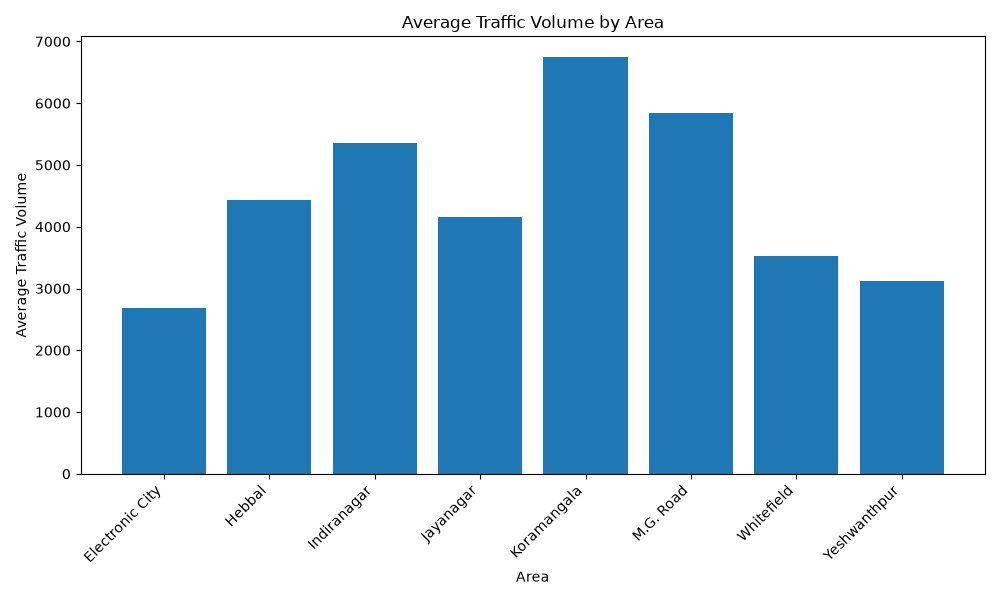
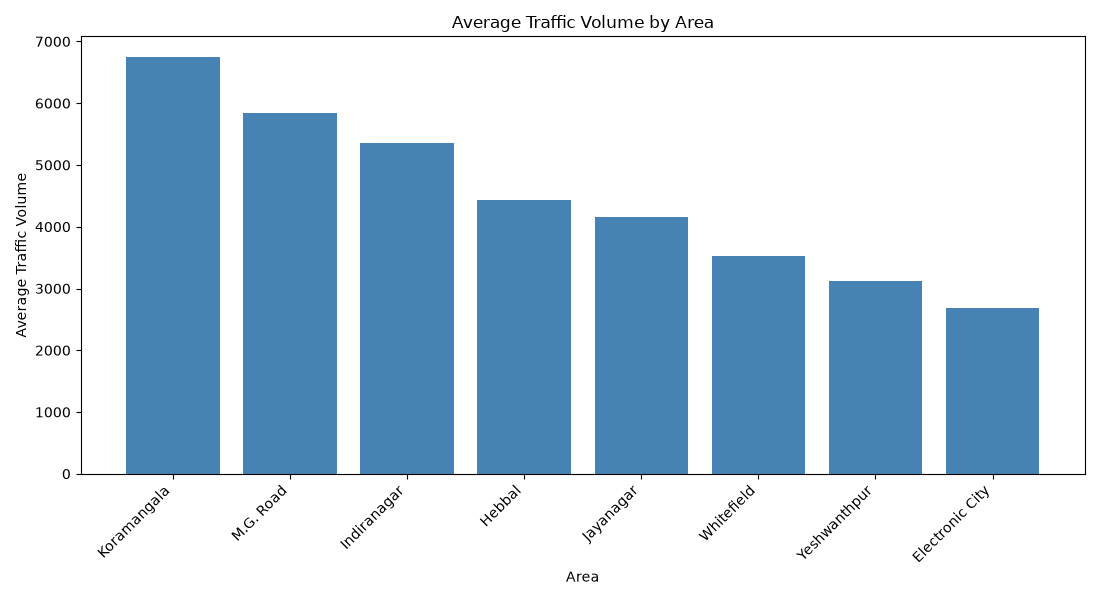
Update Python traffic visualizations

diff --git a/data_visualization.py b/data_visualization.py
@@ -1,16 +1,39 @@
+
 import pandas as pd
 import matplotlib.pyplot as plt
 import os
 
-# Create a folder to save the graphs
+# Load the cleaned traffic dataset
+df = pd.read_csv("bangalore_traffic_cleaned.csv")
+
+# Create a folder to save all five charts
 output_folder = "visualizations"
 os.makedirs(output_folder, exist_ok=True)
 
-# 1. Traffic volume by area
-traffic_volume = pd.read_csv("traffic_volume_by_area.csv")
+# Convert columns into appropriate data types
+df["Date"] = pd.to_datetime(df["Date"], errors="coerce")
+df["Traffic Volume"] = pd.to_numeric(df["Traffic Volume"], errors="coerce")
+df["Average Speed"] = pd.to_numeric(df["Average Speed"], errors="coerce")
 
-plt.figure(figsize=(10, 6))
-plt.bar(traffic_volume.iloc[:, 0], traffic_volume.iloc[:, 1])
+# Define traffic situation colours
+situation_colors = {
+    "HIGH": "red",
+    "MEDIUM": "gold",
+    "LOW": "green"
+}
+
+# --------------------------------------------------
+# 1. Average Traffic Volume by Area
+# --------------------------------------------------
+
+traffic_volume = (
+    df.groupby("Area Name")["Traffic Volume"]
+    .mean()
+    .sort_values(ascending=False)
+)
+
+plt.figure(figsize=(11, 6))
+plt.bar(traffic_volume.index, traffic_volume.values, color="steelblue")
 plt.title("Average Traffic Volume by Area")
 plt.xlabel("Area")
 plt.ylabel("Average Traffic Volume")
@@ -19,30 +42,145 @@ plt.tight_layout()
 plt.savefig(os.path.join(output_folder, "traffic_volume_by_area.png"))
 plt.close()
 
-# 2. Average speed by time block
-average_speed = pd.read_csv("average_speed_by_timeblock.csv")
 
-plt.figure(figsize=(9, 5))
-plt.bar(average_speed.iloc[:, 0], average_speed.iloc[:, 1])
-plt.title("Average Traffic Speed by Time Block")
-plt.xlabel("Time Block")
-plt.ylabel("Average Speed")
+# --------------------------------------------------
+# 2. Traffic Situation Distribution
+# --------------------------------------------------
+
+situation_counts = df["TrafficSituation"].value_counts()
+
+pie_colors = [
+    situation_colors.get(str(label).upper(), "gray")
+    for label in situation_counts.index
+]
+
+plt.figure(figsize=(8, 6))
+plt.pie(
+    situation_counts.values,
+    labels=situation_counts.index,
+    autopct="%1.1f%%",
+    startangle=90,
+    colors=pie_colors
+)
+plt.title("Traffic Situation Distribution")
 plt.tight_layout()
-plt.savefig(os.path.join(output_folder, "average_speed_by_timeblock.png"))
+plt.savefig(os.path.join(output_folder, "traffic_situation_distribution.png"))
 plt.close()
 
-# 3. Traffic situation counts
-situation_counts = pd.read_csv("traffic_situation_counts.csv")
 
-plt.figure(figsize=(8, 5))
-plt.bar(situation_counts.iloc[:, 0], situation_counts.iloc[:, 1])
-plt.title("Traffic Situation Counts")
-plt.xlabel("Traffic Situation")
-plt.ylabel("Number of Records")
+# --------------------------------------------------
+# 3. Monthly Traffic Volume Trend
+# --------------------------------------------------
+
+monthly_traffic = (
+    df.dropna(subset=["Date"])
+    .groupby(df["Date"].dt.to_period("M"))["Traffic Volume"]
+    .mean()
+)
+
+plt.figure(figsize=(11, 6))
+plt.plot(
+    monthly_traffic.index.astype(str),
+    monthly_traffic.values,
+    marker="o",
+    color="blue"
+)
+plt.title("Monthly Traffic Volume Trend")
+plt.xlabel("Month")
+plt.ylabel("Average Traffic Volume")
+plt.xticks(rotation=45, ha="right")
+plt.grid(True, alpha=0.3)
 plt.tight_layout()
-plt.savefig(os.path.join(output_folder, "traffic_situation_counts.png"))
+plt.savefig(os.path.join(output_folder, "monthly_traffic_volume_trend.png"))
 plt.close()
 
-print("All visualizations created successfully!")
-print("Check the visualizations folder for the three graphs.")
 
+# --------------------------------------------------
+# 4. Traffic Volume vs Average Speed
+# --------------------------------------------------
+
+plt.figure(figsize=(10, 6))
+
+for situation, group in df.groupby("TrafficSituation"):
+    plt.scatter(
+        group["Average Speed"],
+        group["Traffic Volume"],
+        label=situation,
+        color=situation_colors.get(str(situation).upper(), "gray"),
+        alpha=0.5
+    )
+
+plt.title("Traffic Volume vs Average Speed")
+plt.xlabel("Average Speed")
+plt.ylabel("Traffic Volume")
+plt.legend(title="Traffic Situation")
+plt.grid(True, alpha=0.3)
+plt.tight_layout()
+plt.savefig(os.path.join(output_folder, "traffic_volume_vs_average_speed.png"))
+plt.close()
+
+
+# --------------------------------------------------
+# 5. Congestion by Area
+# --------------------------------------------------
+
+congestion_data = (
+    df.groupby(["Area Name", "Congestion Level"])["Traffic Volume"]
+    .mean()
+    .unstack(fill_value=0)
+)
+
+# Sort areas by overall average traffic volume
+area_order = (
+    df.groupby("Area Name")["Traffic Volume"]
+    .mean()
+    .sort_values(ascending=False)
+    .index
+)
+
+congestion_data = congestion_data.reindex(area_order)
+
+# Define congestion colours
+congestion_colors = {
+    "HIGH": "red",
+    "MEDIUM": "gold",
+    "LOW": "green"
+}
+
+colors = [
+    congestion_colors.get(str(level).upper(), "gray")
+    for level in congestion_data.columns
+]
+
+congestion_data.plot(
+    kind="bar",
+    stacked=True,
+    figsize=(11, 6),
+    color=colors
+)
+
+plt.title("Congestion by Area")
+plt.xlabel("Area")
+plt.ylabel("Average Traffic Volume")
+plt.xticks(rotation=45, ha="right")
+plt.legend(title="Congestion Level")
+plt.tight_layout()
+plt.savefig(os.path.join(output_folder, "congestion_by_area.png"))
+plt.close()
+
+
+# --------------------------------------------------
+# Completion message
+# --------------------------------------------------
+
+print("SMART AI ADAPTIVE TRAFFIC CONTROL")
+print("=" * 45)
+print("All five visualizations created successfully!")
+print("Check the 'visualizations' folder.")
+
+print("\nGenerated charts:")
+print("1. Average Traffic Volume by Area")
+print("2. Traffic Situation Distribution")
+print("3. Monthly Traffic Volume Trend")
+print("4. Traffic Volume vs Average Speed")
+print("5. Congestion by Area")
